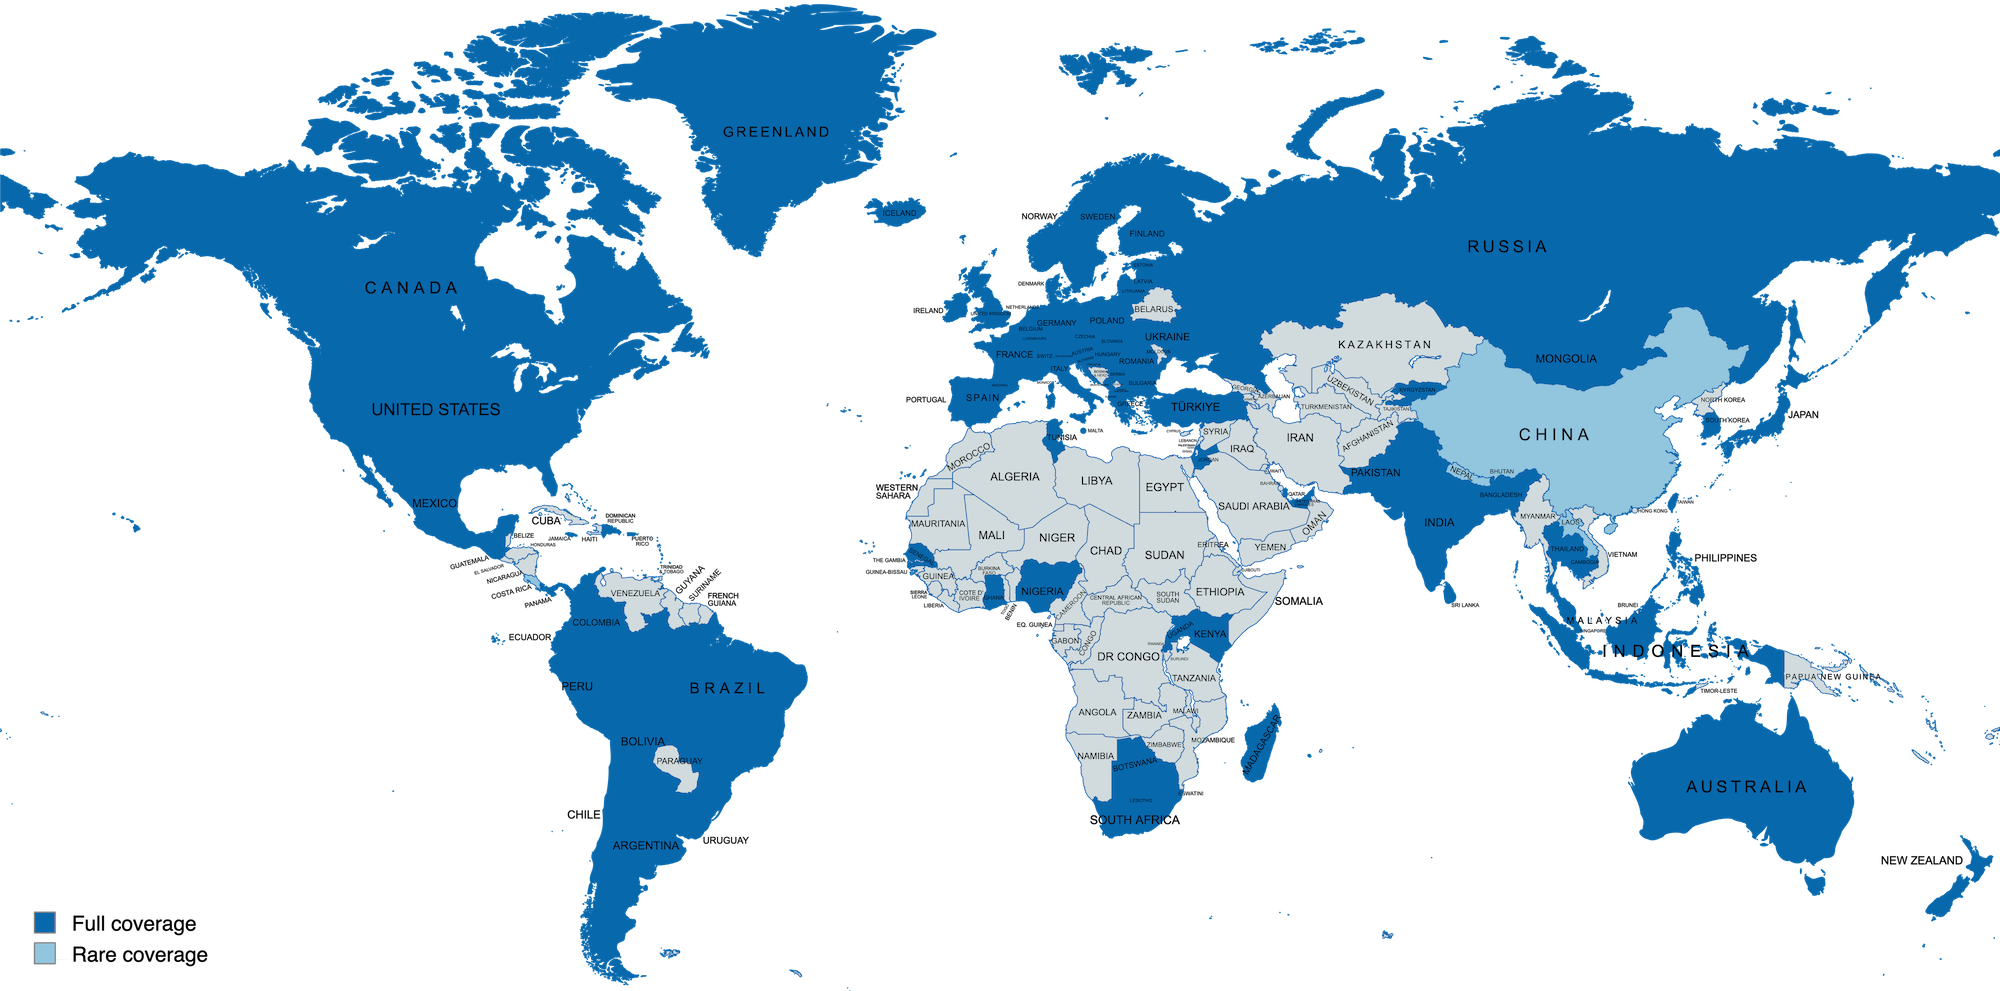
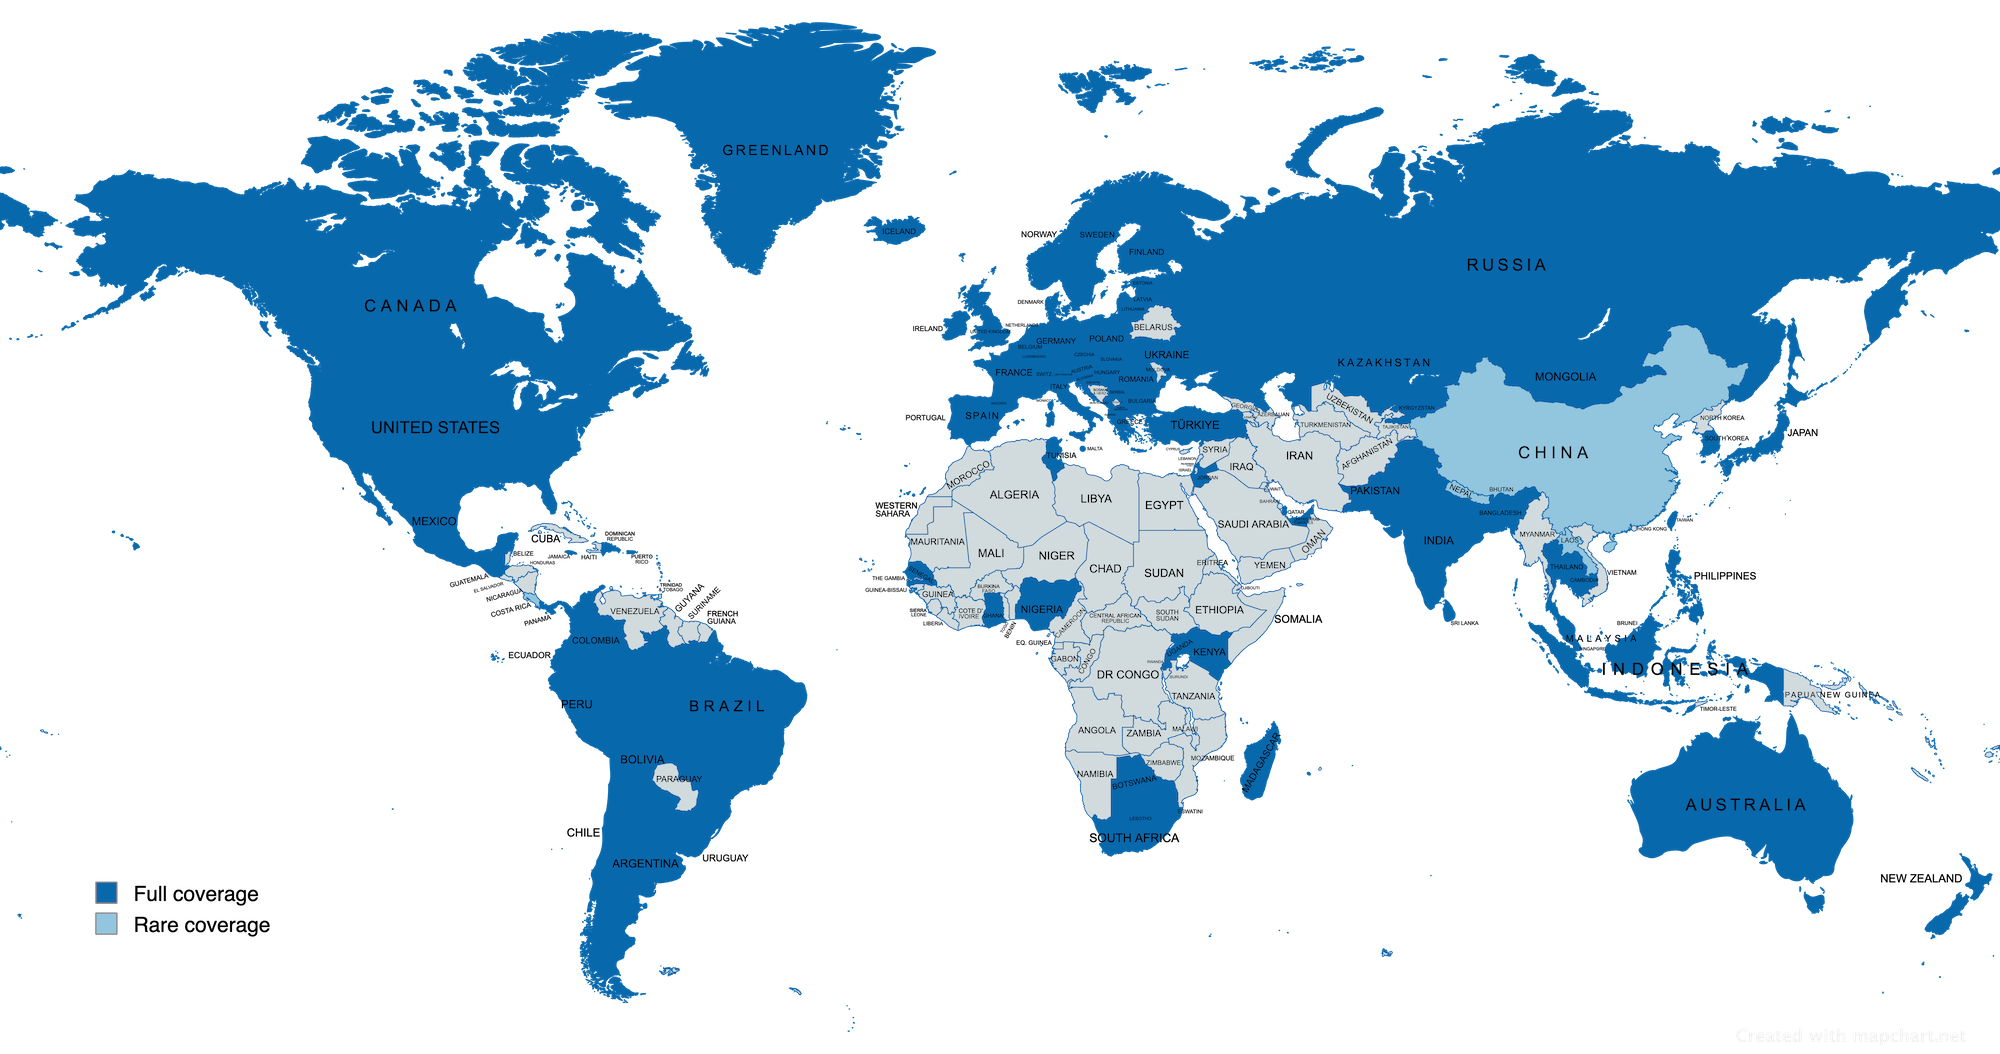
Add KZ

diff --git a/quiz/db_seeds/country_seeder.py b/quiz/db_seeds/country_seeder.py
@@ -70,7 +70,8 @@ INPUT_COUNTRIES = [
     ["Italy", "IT", "Europe", "Western Europe", True],
     ["Japan", "JP", "Asia", "Rest of Asia", False],
     ["Jordan", "JO", "Asia", "Middle East", True],
-    ["Kenya", "KE", "Africa", "Africa", False],
+    ["Kazakhstan", "KE", "Africa", "Rest of Asia", True],
+    ["Kenya", "KZ", "Asia", "Africa", False],
     ["Kyrgyzstan", "KG", "Asia", "Rest of Asia", True],
     ["Laos", "LA", "Asia", "South & South-East Asia", True],
     ["Latvia", "LV", "Europe", "Baltics", True],
